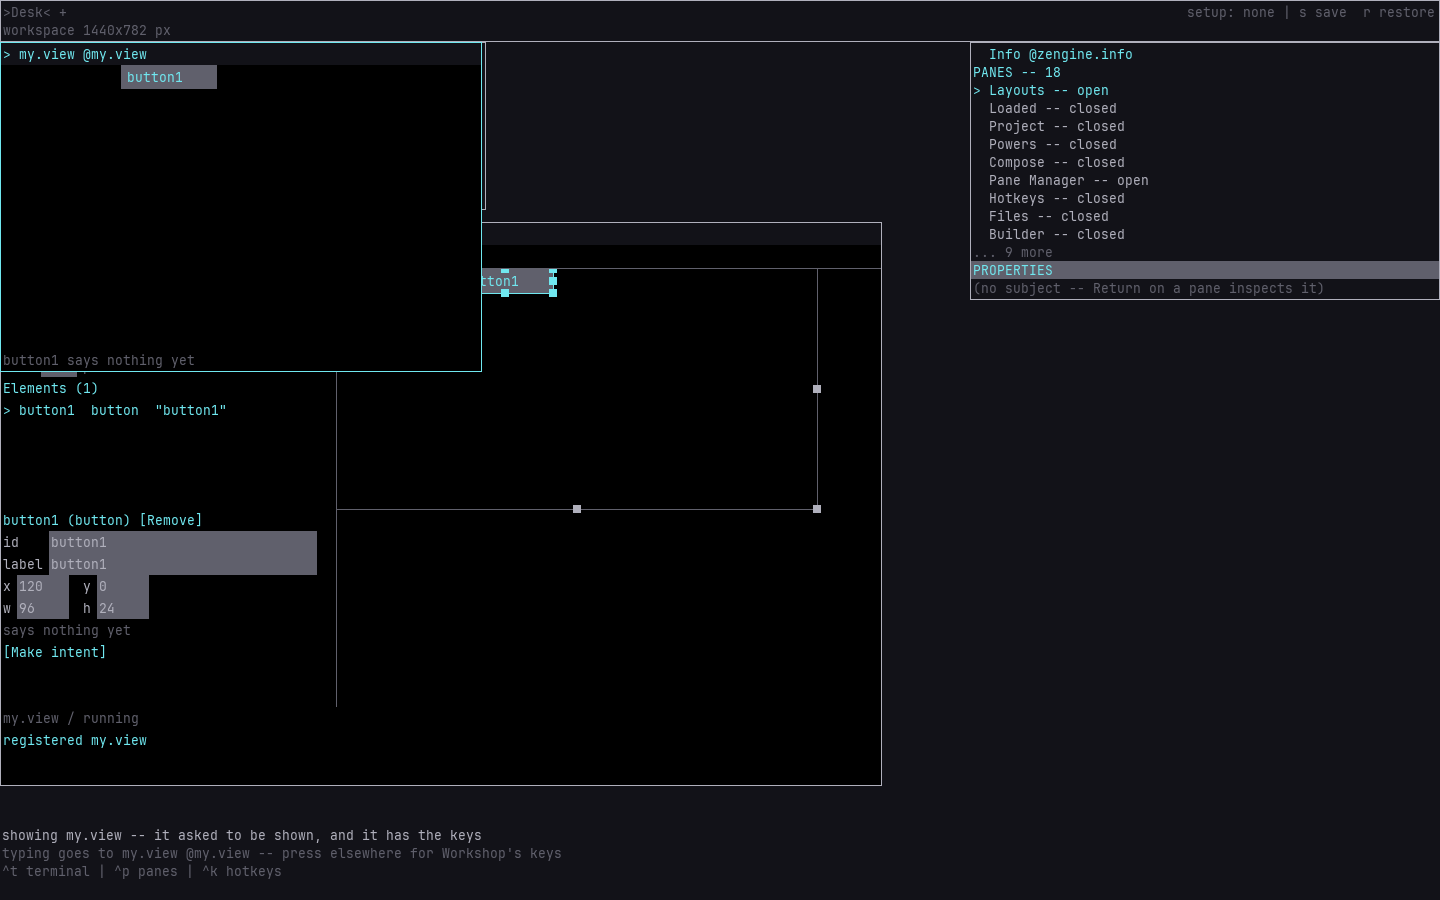
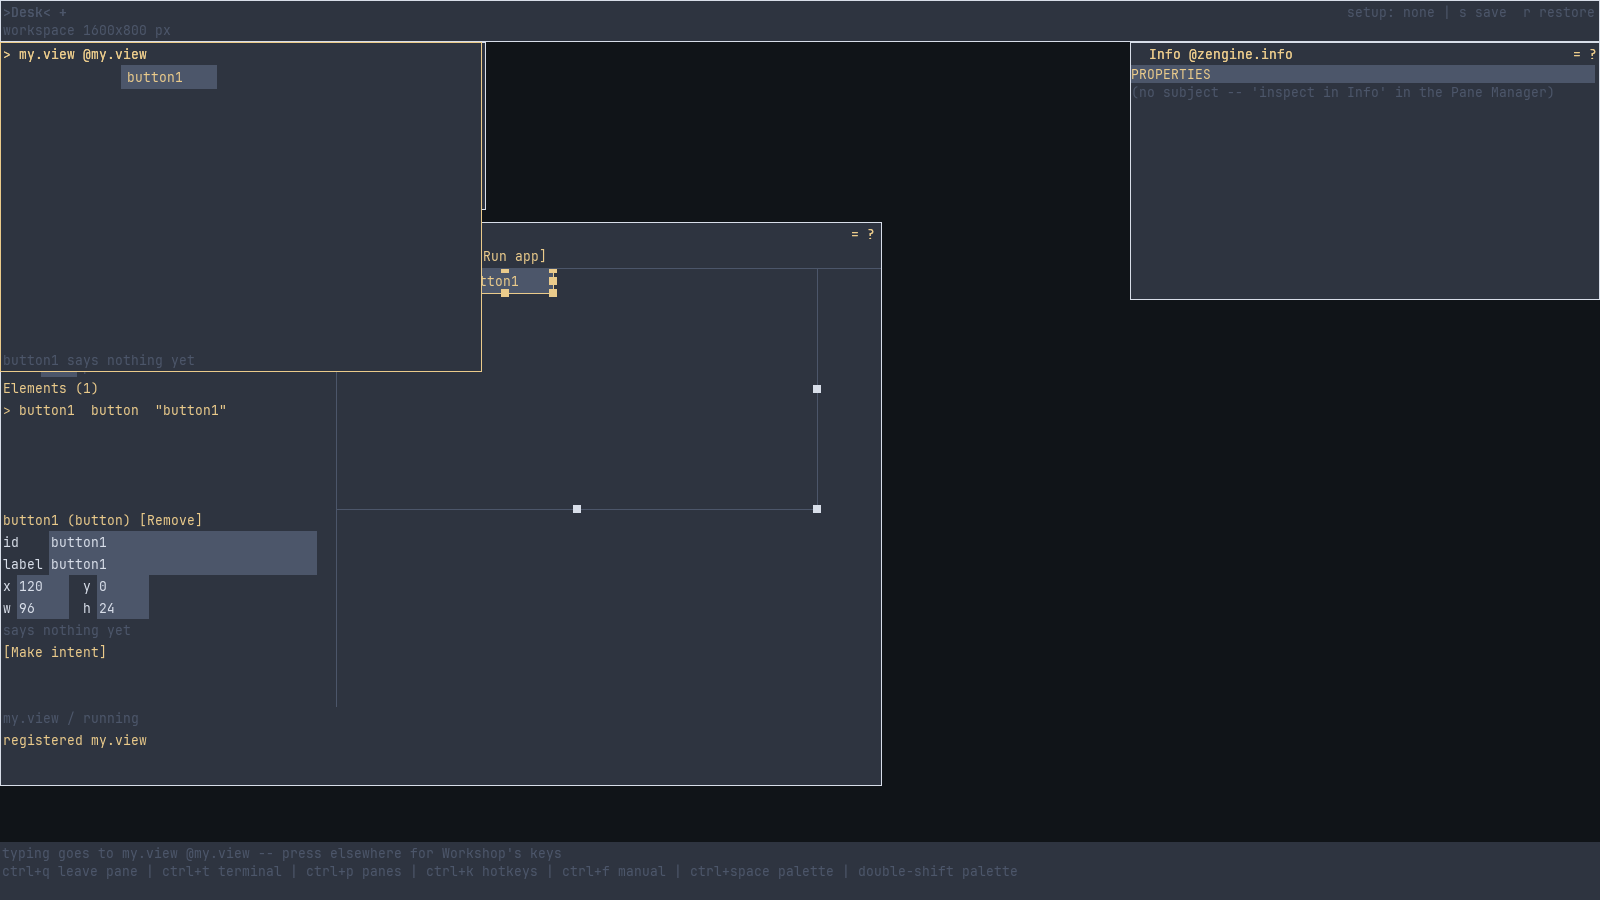
The guide says a refused press is admitted and its refusal said, and what workshop/act hears of it; its pictures of the old band are retaken
Section 1 (whose host this is) says Input takes a guest's refused press like any other while
Workshop says the refusal in the press's own delivery, shown by the Notices pane, so a tool that
only presses passes; workshop/act hears it for a row observing NoticeSaid beside capture, and a
refusal said later, caused by no press, is not heard. Section 3 (following what an owner says)
says what act keeps, when it fails, when it cannot tell, and what a row that may not hear it gets.

The three window pictures that showed the four-row band with a notice in it are retaken at this
branch on Windows (1600 by 900): the weaver's host, now with the Notices pane saying the refusal
of the guest's `s`; the walk read by messages, Info given its subject by the Pane Manager's
inspect in Info; and the walk by names. The overlapping-parts picture is two panes cropped, with
no band, and stays.

diff --git a/external-host/docs/external-host.md b/external-host/docs/external-host.md
@@ -114,7 +114,17 @@ weaver's files, put its words where the weaver commits them, or reach a shell:
   open a pane relays on its behalf -- the Composer's Submit, a stored command -- whose path
   Workshop does not see.
 
-![A 1440 by 720 Workshop on a weaver's host: the Connections pane says the admitted guest's row is version 2 and names what it does not reach here, file writes first; the Attention pane stands a condition that the guest does not reach everything its powers name; and the band says, in red, that a guest's typed text rests in no pane](images/guest-on-a-weavers-host.png)
+**The press itself is admitted; the refusal is said.** Input takes a refused press like any other,
+and Workshop says the refusal in the press's own delivery, as a notice marked a refusal: the
+[Notices pane](../../notices/docs/zengine.notices-pane.md) shows it, and a tool that only presses
+passes. `workshop/act` hears it: it follows what Workshop says from before its first press, and a
+refusal its own press caused ends the run naming the step and Workshop's words -- for a row whose
+`observe` names `zengine.workshop` `NoticeSaid` `1` beside `capture`, as `demo.py` writes every row
+that may capture ([following what an owner
+says](#following-what-an-owner-says-instead-of-reading-its-pane)). A refusal Workshop says later,
+from work no press caused in its own delivery, carries no press and is not heard.
+
+![A 1600 by 900 Workshop on a weaver's host: the Connections pane says the admitted guest's row is version 3 and names what it does not reach here, file writes first; the Attention pane stands the conditions its powers raise here; the Notices pane says, in red, that the setup was not saved, since only the weaver's hand writes a file here -- the refusal of the guest's `s`, which workshop/act heard and failed on; and the band is the keys' legend](images/guest-on-a-weavers-host.png)
 
 On a **development host** none of these is refused: a guest with `input` writes, types and reaches
 the editor and the Terminal there as the weaver would, and one with `build` builds. A guest's
@@ -305,7 +315,8 @@ ships what such a session needs to speak to Workshop, and nothing of the session
   part a pane names by its name, press into a pane or on one of its words, in a text or a canvas
   pane, or on a line of the menu on the screen, turn the wheel over a part by its name or over a
   pane's first word, check a pane's place, size, state or keys on the desk by number, expect or
-  rule out text, keep a pane's words and named parts or a picture -- a cropped PNG if asked),
+  rule out text, keep a pane's words and named parts or a picture -- a cropped PNG if asked; a
+  press Workshop refuses fails its step, in Workshop's words),
   `workshop/place` (a pane's place and size written through Info, one field at a time, each
   row chosen by the name Info gives it),
   `workshop/builder` (the [Builder pane](../../builder/docs/zengine.builder-pane.md)'s keys, each followed to its owner's answer: a
@@ -631,6 +642,14 @@ names — one entry per office, shape and version, the version written as Zen's 
   the build's ending and, separately, the realization's. A status about a later ask before its
   ending is SUPERSEDED, never taken for it. From the press on, the pane may be covered, closed or
   resized. The Builder's words: [the Builder](../../builder/docs/zengine.builder.md#follow).
+- **What Workshop says, heard by `workshop/act`.** A row observing `zengine.workshop` `NoticeSaid`
+  `1` beside `capture` hears each thing Workshop says, once, as it says it, with `refusal` set when
+  it refused. `workshop/act` subscribes before its first press, keeps beside each step what its
+  presses caused (`said` in `steps.json`), and fails the step whose press Workshop refused, in
+  Workshop's words; anything else Workshop says fails nothing. A gap or the subscription's end
+  over a press ends the run UNRESOLVED -- whether it was refused cannot be told -- and a press after
+  the end is not made. A row that may not hear it is pressed as before, and the result says its
+  refusals went unheard and why. `demo.py`'s rows name it beside `DeskStamps` (`following_the_desk`).
 - **Promote and revert are the realization owner's to answer** (`zengine.realization`). Their
   press causes `RealizationAsked` — the owner's word that it took the ask as number N, or refused
   it and why — and the answer names N: `ArtifactPromoted` in the same delivery, `ArtifactRealized`
@@ -966,9 +985,9 @@ inventory and the keymap -- and Workshop says so beside each such row, at launch
   `PaneInventory`, the panes the Pane Manager lists with each one's state, and `KeymapShown`, the
   bindings in force.
 
-![A 1440 by 900 window after a walk read by messages: the View Builder, at 96,102 and 840 by 240 as the desk says, made label1 when its [Label] was pressed by what it says; Info, holding the keys, has Height chosen by select and shows the 240 px written through it](images/desk-read-by-message.png)
+![A 1600 by 900 window after a walk read by messages: the View Builder, at 96,102 and 840 by 240 as the desk says, made label1 when its [Label] was pressed by what it says; Info, given the View Builder by the Pane Manager's inspect in Info and holding the keys, has Height chosen by select and shows the 240 px written through it](images/desk-read-by-message.png)
 
-![A 1440 by 900 window after a walk by names: the View Builder, opened by its Pane Manager row's name, made button1 when kind:button was pressed, and selected it when element:button1 was pressed where the redraw had moved it; control:view.run ran the view my.view, in front, and element:button1 pressed in it says button1 says nothing yet](images/parts-pressed-by-name.png)
+![A 1600 by 900 window after a walk by names: the View Builder, opened by its Pane Manager row's name, made button1 when kind:button was pressed, and selected it when element:button1 was pressed where the redraw had moved it; control:view.run ran the view my.view, in front, and its button1, pressed by its name there, says button1 says nothing yet](images/parts-pressed-by-name.png)
 
 ![Two overlapping buttons pressed by name in a 1440 by 900 window, each where its pane gives it the press: above, button2 lies over button1's centre and the View Builder selects button1 when element:button1 is pressed, on the part of it button2 leaves; below, the running view my.view says button1 says nothing yet when its element:button1 is pressed](images/overlapping-parts-pressed-by-name.png)
 
@@ -997,7 +1016,8 @@ follows Workshop's notice from its first wait and reads the pane again when that
 the desk number moved, never on a clock -- a reading in flight too, whose settling moves its stamp.
 A row that may not follow the notice -- no `capture`, or no `DeskStamps` in its `observe` -- reads
 again every 0.2 seconds at every wait; `workshop/act` says so in its result and counts each step's
-`clock_waits` in `steps.json`.
+`clock_waits` in `steps.json`. One that may not hear what Workshop says -- no `NoticeSaid` in its
+`observe` -- presses as before, and `workshop/act`'s result says its refusals went unheard.
 `workshop/act` steps on them: `at` presses one cell of a pane's text lattice the same way
 (`{"at": ["td.game", "td", 5, 17]}`); `desk` checks a
 pane's place, size, state or keys by number (`{"desk": [provider, pane], "is": {"visible": {"w":
